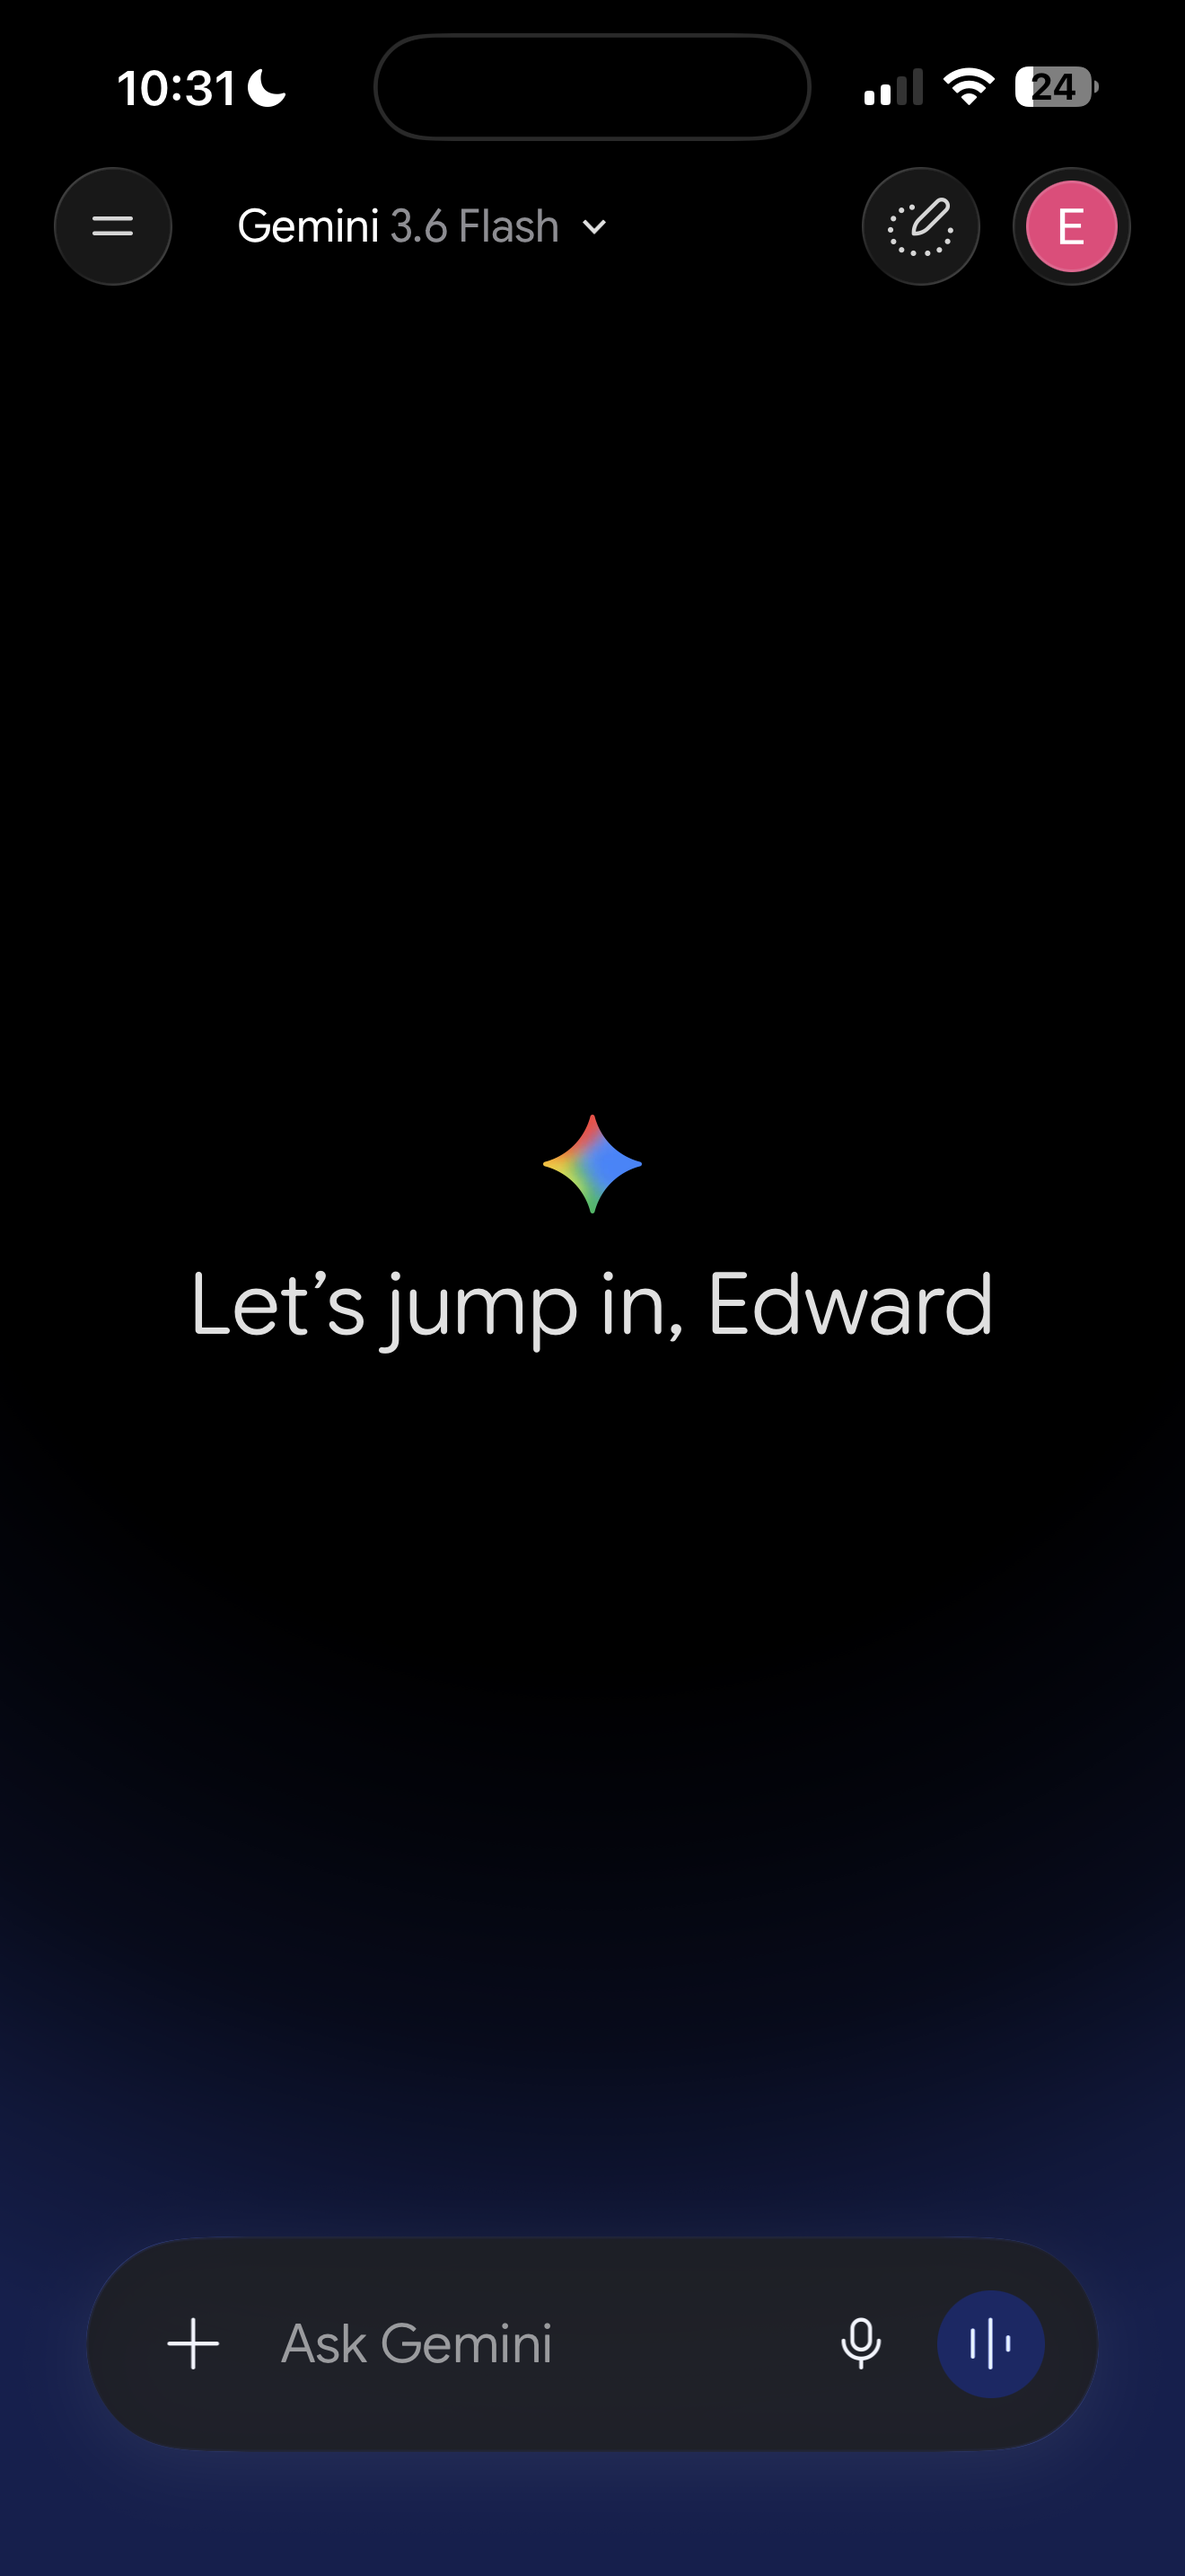
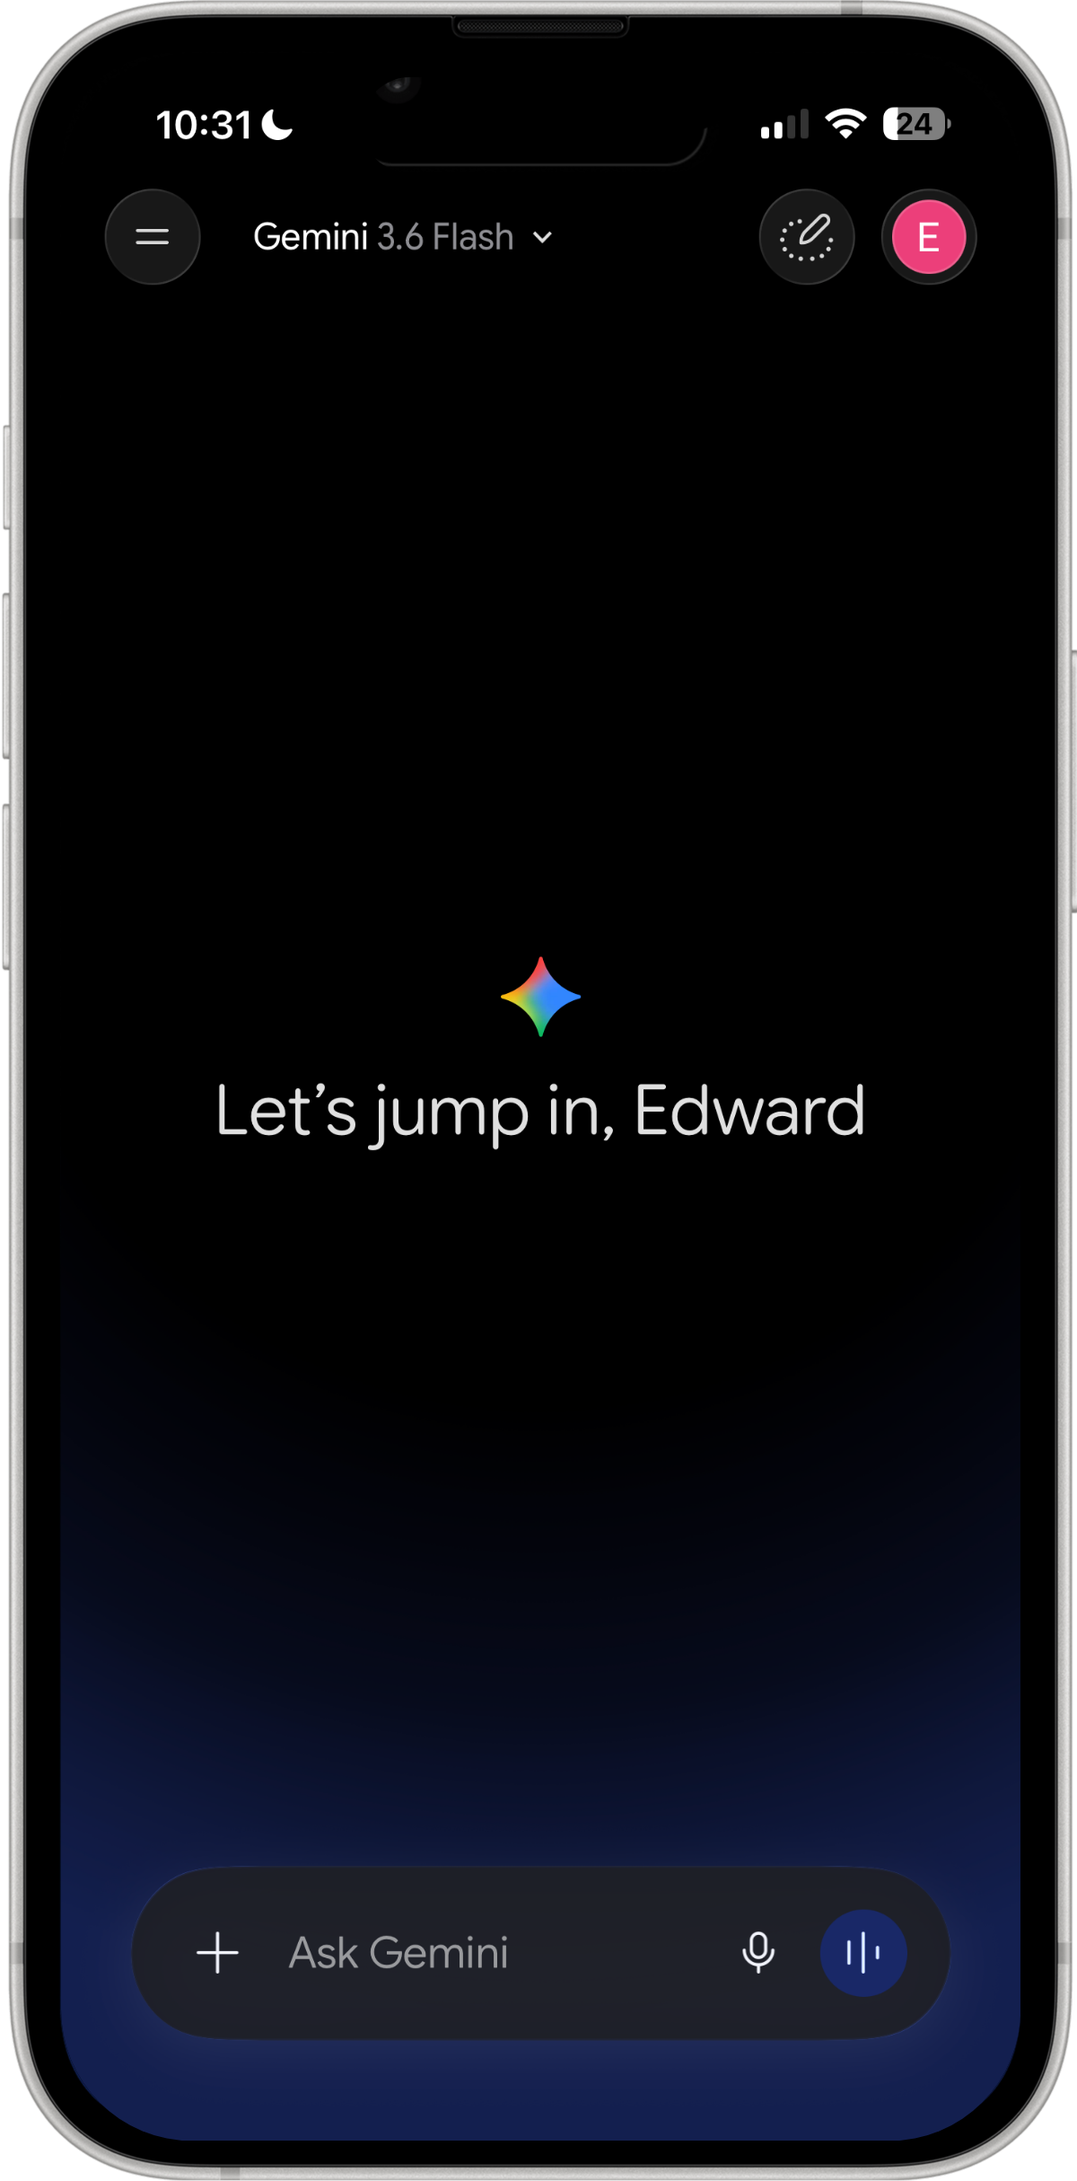
Set Gemini's original home screen in the render mockup, and pair the code screens
The original screenshot now sits in the same iPhone mockup as every other
render, placed by matching a render against its Figma frame. The set-aside
idea shows the cut-off code block and the fullscreen fix side by side.

diff --git a/work/gemini.html b/work/gemini.html
@@ -73,10 +73,11 @@
       Gemini opens on a greeting and a text field. The greeting uses your first name and nothing else, and nothing on the screen reflects what you did the last time you opened the app.
     </p>
 
-    <!-- The real app, from my phone, unedited. -->
+    <!-- The real app, from my phone, unedited, set in the same mockup as the
+         renders. -->
     <div class="split-row has-title">
       <div class="split-art is-still">
-        <img class="is-screen" loading="lazy" decoding="async" src="../images/gemini/original-home.png" width="1320" height="2868" alt="Gemini's home screen on iOS: the model picker, Let's jump in, Edward, and the Ask Gemini field, with the space between them empty" />
+        <img loading="lazy" decoding="async" src="../images/gemini/original-home.png" width="1200" height="2429" alt="Gemini's home screen on iOS: the model picker, Let's jump in, Edward, and the Ask Gemini field, with the space between them empty" />
       </div>
       <div class="split-text">
         <h3 class="cap-moment">Most of the first screen is empty</h3>
@@ -160,11 +161,13 @@
       <p class="reframe-text">"How might the home screen use what Gemini already knows about you?"</p>
     </div>
 
-    <!-- The problem first, then the fix under it, and no more: the aside is
-         here for what it taught, not as a second project. -->
+    <!-- The problem and the fullscreen fix side by side, the landscape view
+         under them, and no more: the aside is here for what it taught, not
+         as a second project. -->
     <div class="split-row has-title">
-      <div class="split-art is-still">
+      <div class="split-art is-pair">
         <img loading="lazy" decoding="async" src="../images/gemini/code-1.png" alt="A code block in the chat running off the right edge of the screen, cutting off its comments mid-line" />
+        <img loading="lazy" decoding="async" src="../images/gemini/code-2.png" alt="The same script opened fullscreen, every line complete, with the chat input still reachable" />
       </div>
       <div class="split-text">
         <h3 class="cap-moment">An idea I set aside</h3>

diff --git a/css/style.css b/css/style.css
@@ -4279,15 +4279,6 @@ a.pos-plate { display: block; }
 a.kit-duo__sheet { overflow: hidden; }
 a.kit-duo__sheet img { display: block; width: 100%; height: auto; }
 
-/* A screenshot straight off the phone, with no device around it: cut to the
-   screen's own corners (55 of 402 points across, 874 down) and set at the
-   width the screens inside the device renders take, so it sits among them. */
-.split-art img.is-screen {
-  width: 92%;
-  height: auto;
-  margin-inline: auto;
-  border-radius: 13.7% / 6.3%;
-}
 
 /* ---------- BEYOND THE WORK (about) ---------- */
 /* The photo globe at the end of the About page, after ramp.design's section
